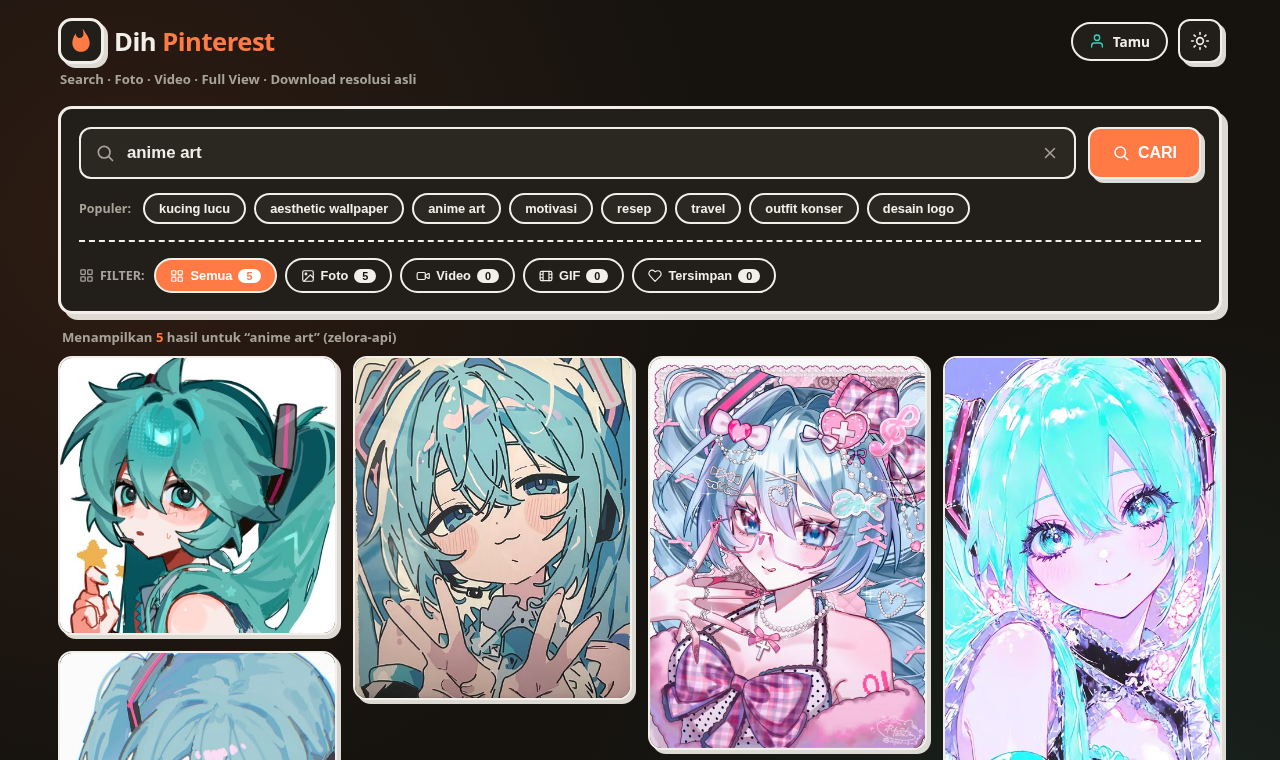
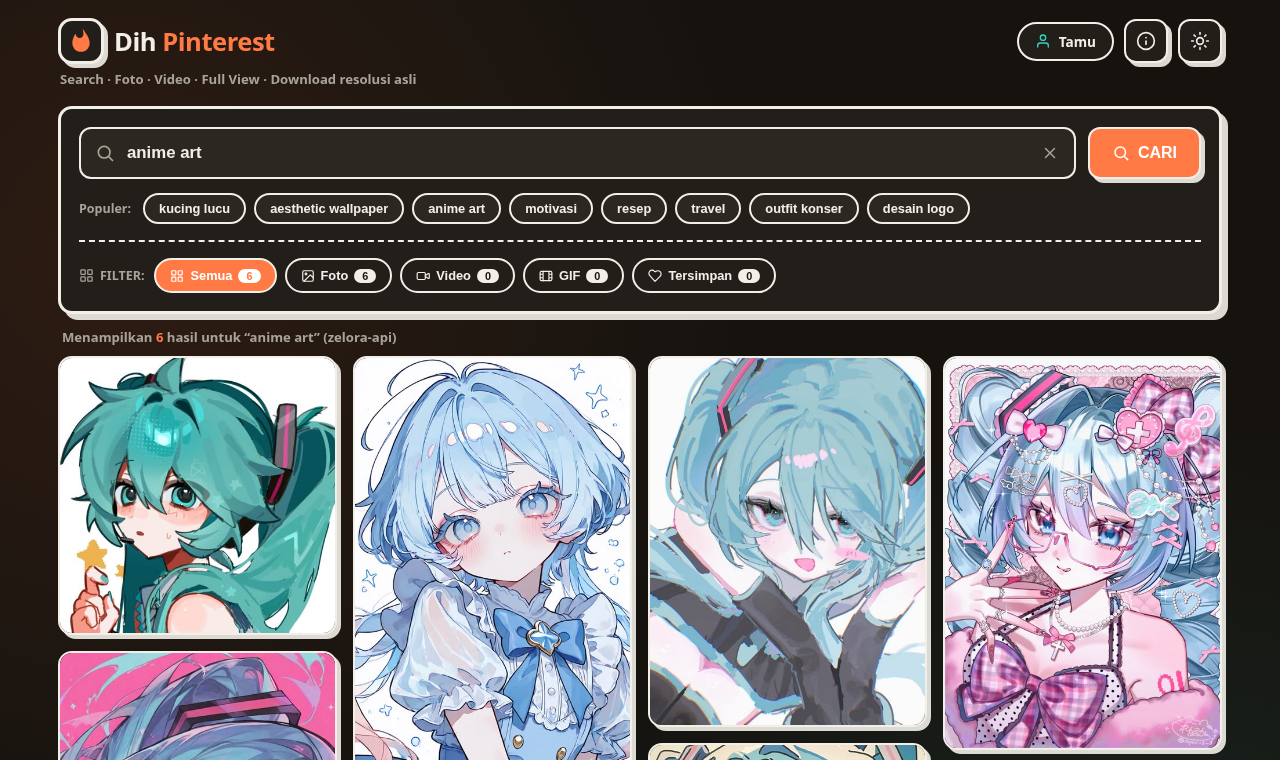
feat: menu creator (Hizkia Letwar / Nihongo? / SMKN 1 Maluku Tengah, XI TJKT)

diff --git a/index.html b/index.html
@@ -5,6 +5,7 @@
 <meta name="viewport" content="width=device-width, initial-scale=1.0">
 <title>Dih Pinterest — Pencarian Foto & Video Pinterest</title>
 <meta name="description" content="Pencarian foto dan video Pinterest dengan filter media, tampilan penuh, download resolusi asli, dan mode gelap. Statis, cepat, dan open source.">
+<meta name="author" content="Hizkia Letwar — SMK Negeri 1 Maluku Tengah (TJKT)">
 <meta name="theme-color" content="#ff6b35">
 <meta name="color-scheme" content="light dark">
 <meta property="og:title" content="Dih Pinterest">
@@ -44,6 +45,11 @@
   <symbol id="i-ghost" viewBox="0 0 24 24" fill="none" stroke="currentColor" stroke-width="2" stroke-linecap="round" stroke-linejoin="round"><path d="M9 10h.01M15 10h.01M12 2a8 8 0 0 0-8 8v12l3-3 2.5 2.5L12 19l2.5 2.5L17 19l3 3V10a8 8 0 0 0-8-8z"/></symbol>
   <symbol id="i-warning" viewBox="0 0 24 24" fill="none" stroke="currentColor" stroke-width="2" stroke-linecap="round" stroke-linejoin="round"><path d="M10.29 3.86 1.82 18a2 2 0 0 0 1.71 3h16.94a2 2 0 0 0 1.71-3L13.71 3.86a2 2 0 0 0-3.42 0z"/><path d="M12 9v4M12 17h.01"/></symbol>
   <symbol id="i-check" viewBox="0 0 24 24" fill="none" stroke="currentColor" stroke-width="2" stroke-linecap="round" stroke-linejoin="round"><path d="M20 6 9 17l-5-5"/></symbol>
+  <symbol id="i-info" viewBox="0 0 24 24" fill="none" stroke="currentColor" stroke-width="2" stroke-linecap="round" stroke-linejoin="round"><circle cx="12" cy="12" r="10"/><path d="M12 16v-4M12 8h.01"/></symbol>
+  <symbol id="i-at" viewBox="0 0 24 24" fill="none" stroke="currentColor" stroke-width="2" stroke-linecap="round"><circle cx="12" cy="12" r="4"/><path d="M16 8v5a3 3 0 0 0 6 0v-1a10 10 0 1 0-4 8"/></symbol>
+  <symbol id="i-school" viewBox="0 0 24 24" fill="none" stroke="currentColor" stroke-width="2" stroke-linecap="round" stroke-linejoin="round"><path d="M22 10 12 5 2 10l10 5 10-5z"/><path d="M6 12v5c0 1.7 2.7 3 6 3s6-1.3 6-3v-5"/><path d="M22 10v6"/></symbol>
+  <symbol id="i-layers" viewBox="0 0 24 24" fill="none" stroke="currentColor" stroke-width="2" stroke-linecap="round" stroke-linejoin="round"><path d="m12 2 9 5-9 5-9-5 9-5z"/><path d="m3 12 9 5 9-5"/><path d="m3 17 9 5 9-5"/></symbol>
+  <symbol id="i-code" viewBox="0 0 24 24" fill="none" stroke="currentColor" stroke-width="2" stroke-linecap="round" stroke-linejoin="round"><path d="m16 18 6-6-6-6M8 6l-6 6 6 6"/></symbol>
 </svg>
 
 <!-- Gate nama (identitas lokal; bisa dilewati) -->
@@ -67,6 +73,7 @@
   </div>
   <div class="topbar-actions">
     <div class="user-badge" id="user-badge" title="Klik untuk ganti nama"><svg><use href="#i-user"/></svg> <span id="display-nama">—</span></div>
+    <button class="icon-btn" id="creator-btn" aria-label="Tentang pembuat" title="Tentang pembuat"><svg><use href="#i-info"/></svg></button>
     <button class="icon-btn" id="theme-toggle" aria-label="Ganti mode gelap/terang"><svg class="icon-moon"><use href="#i-moon"/></svg><svg class="icon-sun"><use href="#i-sun"/></svg></button>
   </div>
 </header>
@@ -107,6 +114,48 @@
 
 <div class="sentinel" id="sentinel" aria-hidden="true"></div>
 <p class="load-hint" id="load-hint" hidden>Menampilkan semua hasil</p>
+
+<footer class="site-foot">
+  <span>Dibuat oleh <button class="linklike" id="foot-creator-btn" type="button">Hizkia Letwar</button></span>
+  <span class="dot" aria-hidden="true">·</span>
+  <span>TJKT — SMK Negeri 1 Maluku Tengah</span>
+</footer>
+</div>
+
+<!-- Menu Creator -->
+<div class="modal" id="creator-modal" role="dialog" aria-modal="true" aria-labelledby="creator-title" aria-hidden="true">
+  <div class="modal-card creator-card">
+    <button class="modal-close" id="creator-close" type="button" aria-label="Tutup menu creator"><svg><use href="#i-x"/></svg></button>
+    <div class="creator-head">
+      <div class="creator-avatar" aria-hidden="true">HL</div>
+      <div class="creator-id">
+        <span class="creator-eyebrow">CREATOR</span>
+        <h2 id="creator-title">Hizkia Letwar</h2>
+        <p class="creator-username"><svg><use href="#i-at"/></svg> Nihongo?</p>
+      </div>
+    </div>
+
+    <ul class="creator-facts">
+      <li>
+        <span class="fact-icon"><svg><use href="#i-school"/></svg></span>
+        <span class="fact-body"><span class="fact-label">Sekolah</span><strong>SMK Negeri 1 Maluku Tengah</strong></span>
+      </li>
+      <li>
+        <span class="fact-icon"><svg><use href="#i-layers"/></svg></span>
+        <span class="fact-body"><span class="fact-label">Kelas</span><strong>XI</strong></span>
+      </li>
+      <li>
+        <span class="fact-icon"><svg><use href="#i-code"/></svg></span>
+        <span class="fact-body"><span class="fact-label">Jurusan</span><strong>Teknik Jaringan Komputer dan Telekomunikasi (TJKT)</strong></span>
+      </li>
+    </ul>
+
+    <div class="creator-actions">
+      <a class="lb-btn" href="https://github.com/Ikyletwar" target="_blank" rel="noopener noreferrer"><svg><use href="#i-external"/></svg> GitHub</a>
+      <button class="lb-btn secondary" id="creator-close-2" type="button">Tutup</button>
+    </div>
+    <p class="creator-note">Dih Pinterest — replika &amp; riset reverse engineering. Dibuat untuk belajar.</p>
+  </div>
 </div>
 
 <!-- Lightbox -->

diff --git a/assets/css/style.css b/assets/css/style.css
@@ -355,6 +355,81 @@ body{
 }
 .toast.show{opacity:1;transform:translate(-50%,0)}
 
+/* ===== Footer ===== */
+.site-foot{
+  display:flex;flex-wrap:wrap;align-items:center;justify-content:center;gap:8px;
+  margin-top:44px;padding-top:18px;border-top:2px dashed var(--ink);
+  font-size:.8rem;font-weight:600;color:var(--muted);text-align:center;
+}
+.site-foot .dot{opacity:.6}
+.linklike{
+  border:none;background:transparent;padding:0;font:inherit;font-weight:800;
+  color:var(--accent);cursor:pointer;text-decoration:underline;text-underline-offset:3px;
+}
+.linklike:hover{color:var(--accent-hover)}
+
+/* ===== Modal (menu creator) ===== */
+.modal{
+  position:fixed;inset:0;z-index:3500;display:flex;align-items:center;justify-content:center;
+  padding:20px;background:rgba(0,0,0,.6);backdrop-filter:blur(4px);
+  opacity:0;pointer-events:none;transition:opacity .2s;
+}
+.modal.open{opacity:1;pointer-events:auto}
+.modal-card{
+  position:relative;width:100%;max-width:430px;
+  background:var(--card);border:var(--border);border-radius:var(--radius);
+  box-shadow:8px 8px 0 var(--ink);padding:26px 24px;
+  transform:translateY(10px) scale(.98);transition:transform .2s;
+}
+.modal.open .modal-card{transform:translateY(0) scale(1)}
+.modal-close{
+  position:absolute;top:12px;right:12px;width:36px;height:36px;
+  display:flex;align-items:center;justify-content:center;
+  border:var(--border-2);border-radius:10px;background:var(--card-2);
+  color:var(--ink);cursor:pointer;transition:background .12s,transform .12s;
+}
+.modal-close:hover{background:var(--accent);color:#fff;transform:rotate(90deg)}
+.modal-close svg{width:18px;height:18px}
+
+.creator-head{display:flex;align-items:center;gap:14px;margin-bottom:20px;padding-right:34px}
+.creator-avatar{
+  flex:none;width:62px;height:62px;border-radius:16px;
+  background:var(--accent);color:#fff;border:var(--border-2);
+  box-shadow:var(--shadow-sm);display:flex;align-items:center;justify-content:center;
+  font-size:1.35rem;font-weight:900;letter-spacing:.5px;
+}
+.creator-eyebrow{
+  display:inline-block;font-size:.62rem;font-weight:900;letter-spacing:1.6px;
+  color:var(--muted);margin-bottom:2px;
+}
+.creator-id h2{font-size:1.3rem;font-weight:900;line-height:1.15;letter-spacing:-.3px}
+.creator-username{
+  display:flex;align-items:center;gap:5px;margin-top:3px;
+  font-size:.88rem;font-weight:800;color:var(--accent2);
+}
+.creator-username svg{width:15px;height:15px}
+
+.creator-facts{list-style:none;display:flex;flex-direction:column;gap:10px;margin-bottom:20px}
+.creator-facts li{
+  display:flex;align-items:flex-start;gap:12px;
+  background:var(--card-2);border:var(--border-2);border-radius:12px;padding:10px 12px;
+}
+.fact-icon{
+  flex:none;width:34px;height:34px;border-radius:9px;background:var(--card);
+  border:2px solid var(--ink);display:flex;align-items:center;justify-content:center;color:var(--accent);
+}
+.fact-icon svg{width:17px;height:17px}
+.fact-body{display:flex;flex-direction:column;gap:1px}
+.fact-label{font-size:.64rem;font-weight:900;letter-spacing:1px;color:var(--muted);text-transform:uppercase}
+.fact-body strong{font-size:.88rem;font-weight:800;line-height:1.35}
+
+.creator-actions{display:flex;gap:10px}
+.creator-actions .lb-btn{flex:1;justify-content:center}
+.creator-note{
+  margin-top:14px;font-size:.7rem;font-weight:600;color:var(--muted);
+  text-align:center;line-height:1.45;
+}
+
 /* ===== Responsive ===== */
 @media(max-width:860px){
   .masonry{columns:2 150px;column-gap:10px}

diff --git a/assets/js/app.js b/assets/js/app.js
@@ -546,6 +546,33 @@ $("#filter-bar").addEventListener("click", e => {
   if (chip) setFilter(chip.dataset.filter);
 });
 
+/* ===== Menu Creator ===== */
+const creatorModal = $("#creator-modal");
+let creatorOpener = null;
+
+function openCreator(ev) {
+  creatorOpener = ev && ev.currentTarget ? ev.currentTarget : null;
+  creatorModal.classList.add("open");
+  creatorModal.setAttribute("aria-hidden", "false");
+  document.body.style.overflow = "hidden";
+  $("#creator-close").focus();
+}
+function closeCreator() {
+  creatorModal.classList.remove("open");
+  creatorModal.setAttribute("aria-hidden", "true");
+  if (!els.lightbox.classList.contains("open")) document.body.style.overflow = "";
+  if (creatorOpener && typeof creatorOpener.focus === "function") creatorOpener.focus();
+  creatorOpener = null;
+}
+$("#creator-btn").addEventListener("click", openCreator);
+$("#foot-creator-btn").addEventListener("click", openCreator);
+$("#creator-close").addEventListener("click", closeCreator);
+$("#creator-close-2").addEventListener("click", closeCreator);
+creatorModal.addEventListener("click", e => { if (e.target === creatorModal) closeCreator(); });
+document.addEventListener("keydown", e => {
+  if (e.key === "Escape" && creatorModal.classList.contains("open")) closeCreator();
+});
+
 /* ===== Init ===== */
 initTheme();
 renderSuggest();

diff --git a/README.md b/README.md
@@ -33,6 +33,7 @@ Replika modern sekaligus **laporan reverse engineering** dari `searchpinterest.v
 - [Perbedaan dengan situs asli](#-perbedaan-dengan-situs-asli)
 - [Struktur proyek](#-struktur-proyek)
 - [Roadmap](#-roadmap)
+- [Creator](#-creator)
 - [Lisensi](#-lisensi)
 
 ---
@@ -51,6 +52,7 @@ Replika modern sekaligus **laporan reverse engineering** dari `searchpinterest.v
 | 🧠 **Riwayat pencarian** | 10 query terakhir, bisa dibersihkan, muncul saat input difokuskan |
 | ♾ **Progressive render** | Kartu dirender per 16 item saat mendekati viewport (IntersectionObserver) |
 | 🔗 **Deep link** | `?nama=Tamu&q=kucing&theme=dark` — bisa dibagikan langsung |
+| 👤 **Menu creator** | Profil pembuat proyek (identitas sekolah & jurusan), bisa dibuka dari topbar atau footer |
 | 🛡 **Anti-CORS berlapis** | Proxy sendiri → API langsung → proxy publik (fallback otomatis) |
 | ♿ **Aksesibilitas** | Landmark, `aria-*`, fokus terlihat, dukungan `prefers-reduced-motion` |
 | 📦 **Nol dependensi frontend** | Tanpa framework, tanpa CDN ikon (SVG sprite inline), tanpa build step |
@@ -262,6 +264,27 @@ dih-pinterest-replica/
 - [ ] PWA offline cache untuk pin yang sudah dibuka
 - [ ] Service worker + shell cache untuk buka instan
 - [ ] Opsi scraper sendiri (RSS Pinterest) sebagai pengganti API pihak ketiga
+
+---
+
+## 👤 Creator
+
+<div align="center">
+<img src="docs/creator.png" alt="Menu creator" width="720">
+</div>
+
+| | |
+|---|---|
+| **Nama** | Hizkia Letwar |
+| **Username** | Nihongo? |
+| **Sekolah** | SMK Negeri 1 Maluku Tengah |
+| **Kelas** | XI |
+| **Jurusan** | Teknik Jaringan Komputer dan Telekomunikasi (TJKT) |
+| **GitHub** | [@Ikyletwar](https://github.com/Ikyletwar) |
+
+Menu creator dapat dibuka lewat tombol **ⓘ** di topbar atau tautan nama pada footer.
+Isinya dirender sebagai modal dengan `role="dialog"`, `aria-modal`, tombol tutup,
+klik backdrop, dan `Esc`.
 
 ---
 
